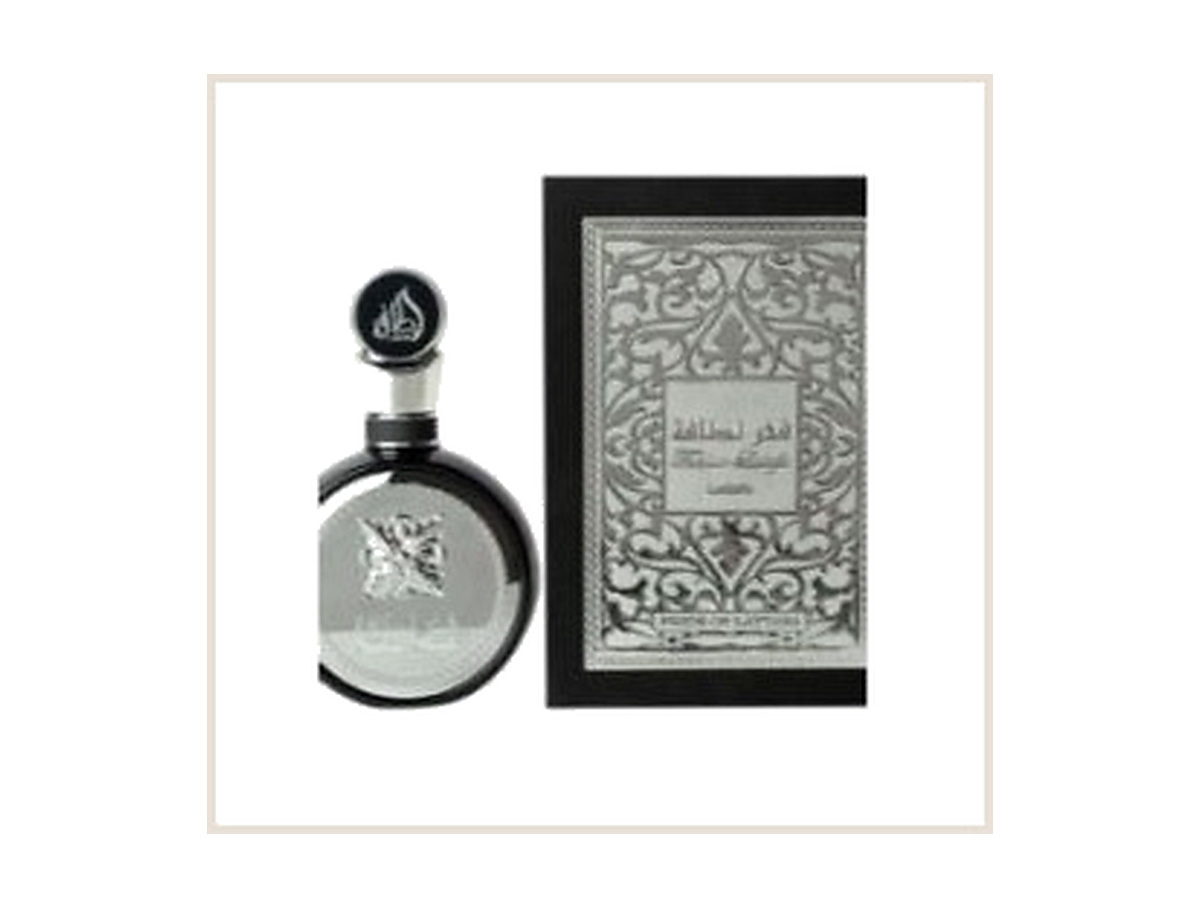
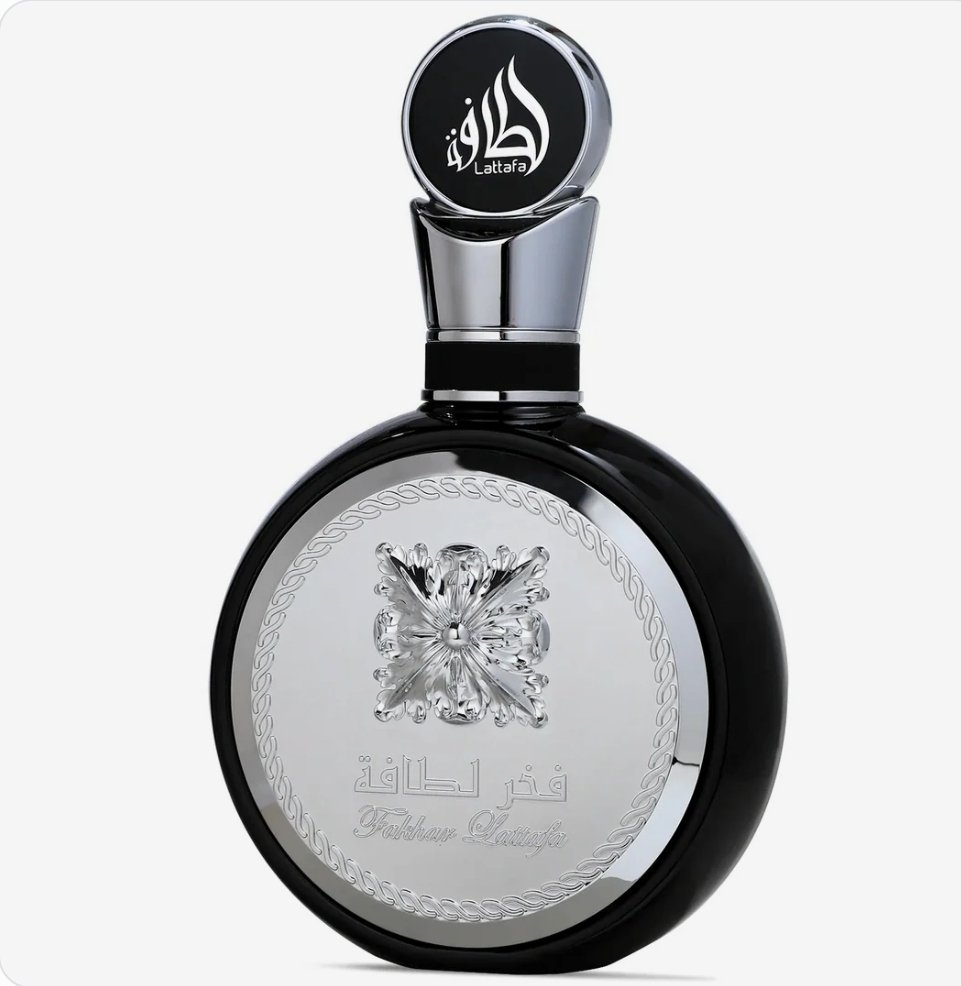
Replace Lattafa Fakhar photos with Boss's new shots

diff --git a/index.html b/index.html
@@ -703,7 +703,7 @@
         { name:'Barakkat Satin Oud Perfume for Unisex', niche:'Barakkat · Unisex · 3.4 oz EDP', direction:'Velvety rose, oud and vanilla amber', description:'Velvety rose meets dark oud and a warm vanilla-amber base. Opulent and smooth, with the kind of depth that suits evenings and special occasions.', category:'woody', images:[{src:'assets/product-barakkat-satin-oud.jpg', alt:'Barakkat Satin Oud bottle and decorative box — clean packshot'}], price:22, decantPrice:6, originalPrice:27, featured:12 , paymentLink:'https://buy.stripe.com/7sY14pfDjeQs7G2c0Pf7i1f'},
         { name:'Lattafa Angham Perfume for Unisex', niche:'Lattafa · Unisex · 3.4 oz EDP', direction:'Spiced vanilla, praline and tonka', description:'A warm gourmand profile built around sweet spice, creamy vanilla and nutty praline. Cozy and expressive, with a smooth tonka-rich finish.', category:'sweet', images:[{src:'assets/product-lattafa-angham.jpg', alt:'Lattafa Angham bottle and box — clean packshot'}], price:34, decantPrice:9, originalPrice:40, featured:13 , paymentLink:'https://buy.stripe.com/6oUfZjgHncIk5xUgh5f7i1e'},
         { name:'Lattafa Her Confession Perfume for Women', niche:'Lattafa · Women · 3.4 oz EDP', direction:'White florals, spice and creamy vanilla', description:'Luminous white florals are wrapped in gentle spice, creamy vanilla and soft woods. Elegant and sensual, with warmth that lingers close to the skin.', category:'amber', images:[{src:'assets/product-lattafa-her-confession.jpg', alt:'Lattafa Her Confession bottle and white box — clean packshot'}], price:42, decantPrice:11, originalPrice:48, featured:14 , paymentLink:'https://buy.stripe.com/28E4gB4YF37Ke4q1mbf7i0L'},
-        { name:'Lattafa Fakhar Cologne for Men', niche:'Lattafa · Men · 3.4 oz EDP', direction:'Fresh apple, aromatics and smooth woods', description:'Crisp fruit and bright aromatics open cleanly before settling into smooth woods and tonka warmth. Versatile, polished and easy to reach for.', category:'fresh', images:[{src:'assets/product-lattafa-fakhar.jpg', alt:'Lattafa Fakhar bottle and patterned box — clean packshot'}], price:28, decantPrice:7, originalPrice:34, featured:15 , paymentLink:'https://buy.stripe.com/4gM4gBcr74bObWi5Crf7i1g'},
+        { name:'Lattafa Fakhar Cologne for Men', niche:'Lattafa · Men · 3.4 oz EDP', direction:'Fresh apple, aromatics and smooth woods', description:'Crisp fruit and bright aromatics open cleanly before settling into smooth woods and tonka warmth. Versatile, polished and easy to reach for.', category:'fresh', images:[{src:'assets/product-lattafa-fakhar.jpg', alt:'Lattafa Fakhar black and silver bottle on a clean white background'},{src:'assets/product-lattafa-fakhar-2.jpg', alt:'Lattafa Fakhar black and silver bottle, front view'}], price:28, decantPrice:7, originalPrice:34, featured:15 , paymentLink:'https://buy.stripe.com/4gM4gBcr74bObWi5Crf7i1g'},
         { name:'Afnan 9PM Cologne for Men', niche:'Afnan · Men · 3.4 oz EDP', direction:'Apple, cinnamon and amber vanilla', description:'Sweet apple and cinnamon lift an aromatic heart, then give way to a warm amber-vanilla base. Bold, youthful and built for nights out.', category:'sweet', images:[{src:'assets/product-afnan-9pm.jpg', alt:'Afnan 9PM bottle and black box on a clean white background'},{src:'assets/product-afnan-9pm-2.jpg', alt:'Afnan 9PM bottle on a clean white background'},{src:'assets/product-afnan-9pm-3.jpg', alt:'Afnan 9PM bottle in a styled ice composition'}], price:32, decantPrice:8, originalPrice:40, featured:16 , paymentLink:'https://buy.stripe.com/8x2bJ3fDjgYA8K6aWLf7i17'},
         { name:'Al Haramain Amber Oud Gold Edition Perfume for Unisex', niche:'Al Haramain · Unisex · 2.0 oz EDP', direction:'Sweet fruits, vanilla and clean musk', description:'A bright, juicy fruit accord glides into creamy vanilla, amber and clean musk. Radiant and attention-grabbing, with a sweet unisex signature.', category:'sweet', images:[{src:'assets/product-al-haramain-amber-oud-gold.jpg', alt:'Al Haramain Amber Oud Gold Edition gold bottle on a clean white background'},{src:'assets/product-al-haramain-amber-oud-gold-2.jpg', alt:'Al Haramain Amber Oud Gold Edition bottle and box on a clean white background'}], price:49, decantPrice:12, originalPrice:68, featured:17 , paymentLink:'https://buy.stripe.com/5kQbJ32QxbEg2lI0i7f7i1n'},
         { name:'Lattafa Asad Bourbon Perfume for Unisex', niche:'Lattafa · Unisex · 3.4 oz EDP', direction:'Plum, spice and smooth vanilla woods', description:'Rich plum and warm spice open into a smooth blend of cacao-toned sweetness, vanilla and woods. Deep and inviting without feeling overly heavy.', category:'amber', images:[{src:'assets/product-lattafa-asad-bourbon.jpg', alt:'Lattafa Asad Bourbon bottle in a styled amber and vanilla composition'},{src:'assets/product-lattafa-asad-bourbon-2.jpg', alt:'Lattafa Asad Bourbon bottle close-up on a neutral background'},{src:'assets/product-lattafa-asad-bourbon-3.jpg', alt:'Lattafa Asad Bourbon bottle with amber stones'},{src:'assets/product-lattafa-asad-bourbon-4.jpg', alt:'Lattafa Asad Bourbon bottle on a marble counter'}], price:34, decantPrice:9, originalPrice:40, featured:18 , paymentLink:'https://buy.stripe.com/eVq00l9eV5fSf8u8ODf7i1i'},
